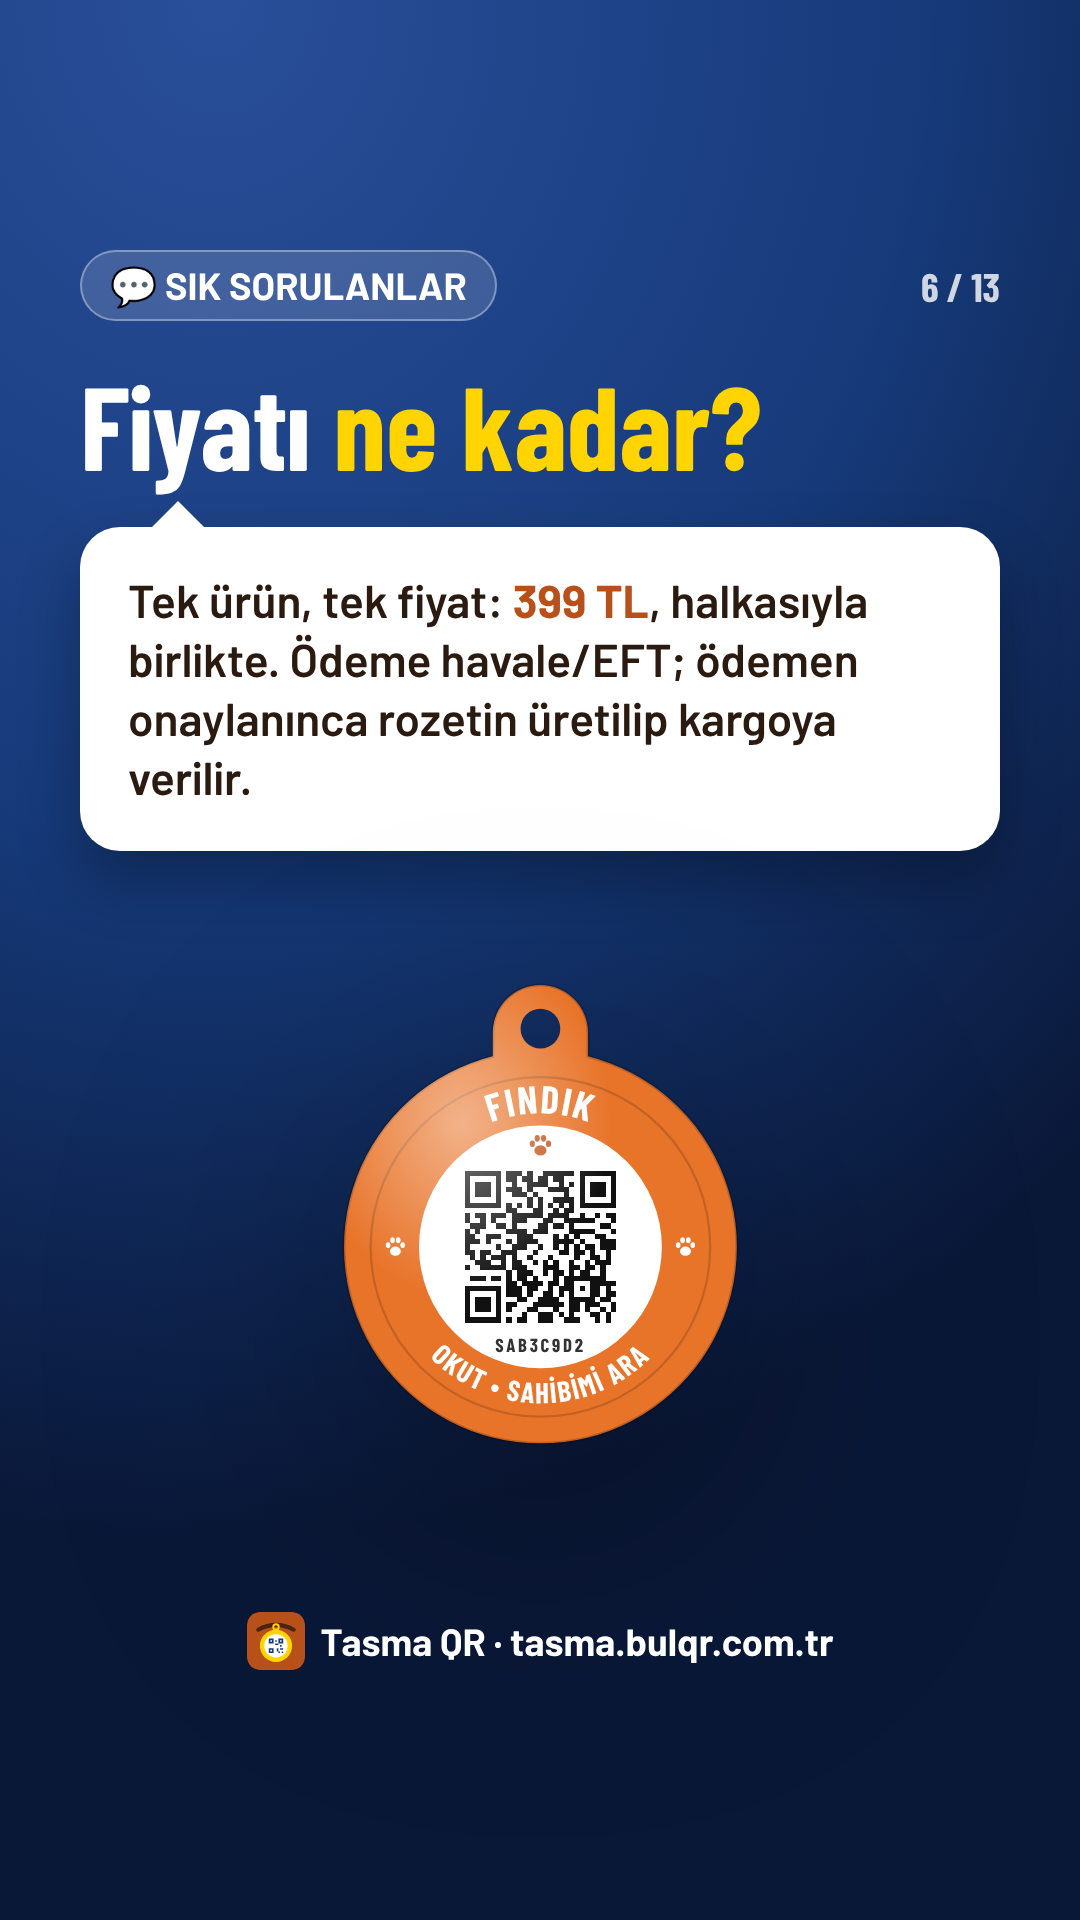
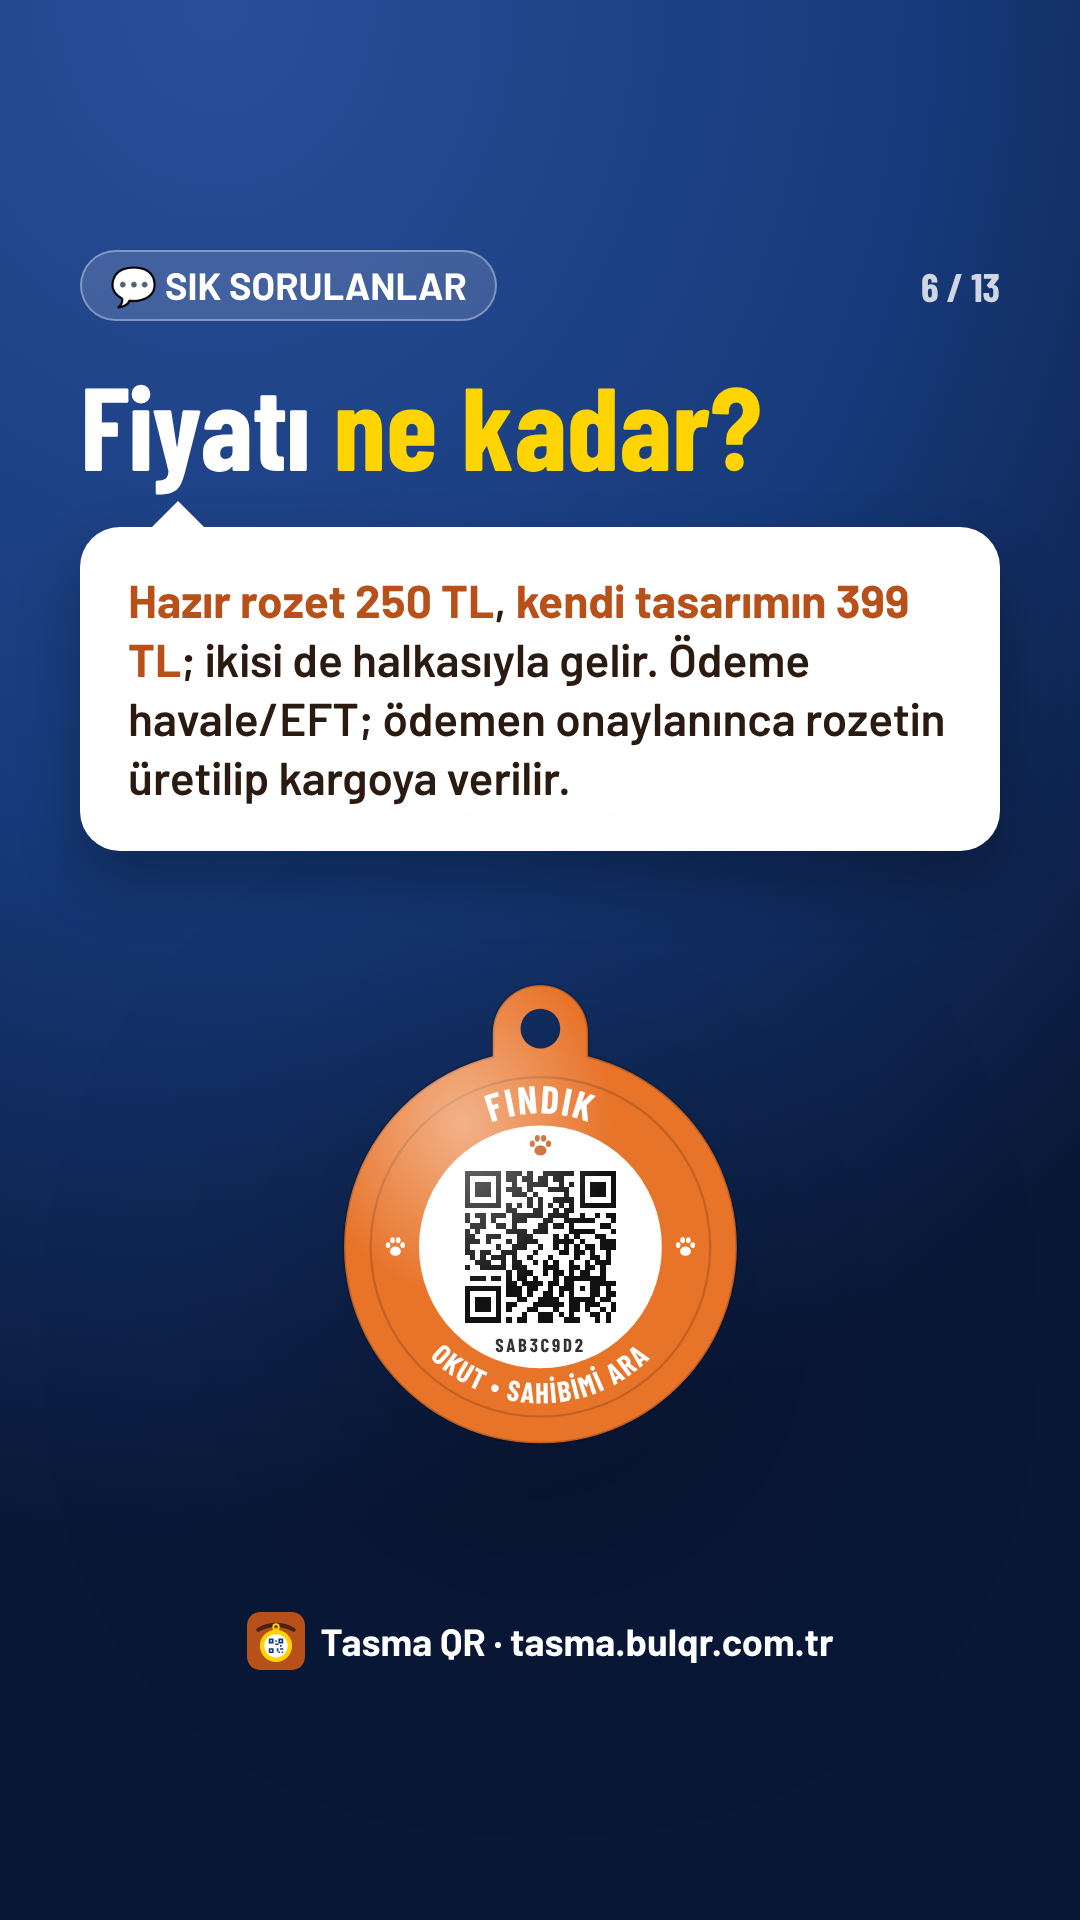
Hazır rozet ayrı fiyat (250 TL), kendi tasarımın rozeti 399 TL
- kurulum.sql sürüm 6: tasma_shop_settings.price_ready (250), hazır sipariş bu fiyattan; ilk kurulumda özel tasarım fiyatı 399'a çekilir
- Yönetim Ayarlar'da iki fiyat alanı; site, hazır rozet formu ve SSS hikâyesi güncellendi

Claude-Session: https://claude.ai/code/session_01ALvW45Kmmpq3Sujxg1sZBF

Changed region(s): [[0.1222, 0.2812, 0.8556, 0.4375]]

diff --git a/index.html b/index.html
@@ -947,7 +947,7 @@ function showHome() {
     <div class="strip">
       <div><b>1 dk</b><span>kurulum, hesap yok</span></div>
       <div><b>${Object.keys(DESIGNS).length}</b><span>rozet tasarımı</span></div>
-      <div><b>${PRICE} TL</b><span>su geçirmez 3D baskı rozet</span></div>
+      <div><b>${PRICE_READY} TL'den</b><span>su geçirmez 3D baskı rozet</span></div>
       <div><b>🔒 PIN</b><span>bilgileri yalnızca siz değiştirirsiniz</span></div>
     </div>
 
@@ -1117,7 +1117,7 @@ async function showRequest(error = "", v = null) {
       <div class="preview"><div style="zoom:1.8">${badgeAt("ÖRNEK", designForBody(v.body), badgeSize(v.size), {link: SITE, top: "SAHİBİMİ ARA", body: body?.hex})}</div></div>
       ${error ? `<div class="msg err" role="alert" style="margin-top:14px">${esc(error)}</div>` : ""}
       <form id="hf" novalidate>
-        <p class="hint" style="margin-top:0"><b>${esc(PRODUCTS[PRODUCT_KIND].name)} · ${esc(shopPrice(shop))} TL.</b> ${esc(shop.shipping_text || "")}</p>
+        <p class="hint" style="margin-top:0"><b>Hazır rozet · ${esc(shopReadyPrice(shop))} TL.</b> ${esc(shop.shipping_text || "")}</p>
         <label>Gövde rengi</label>${bodyChips(v.body, shop)}
         <label for="h-size">Ölçü</label>
         <select id="h-size" class="big">${Object.entries(BADGE_SIZES).map(([k, n]) => `<option value="${k}"${k === badgeSize(v.size) ? " selected" : ""}>${esc(n)}</option>`).join("")}</select>
@@ -1130,7 +1130,7 @@ async function showRequest(error = "", v = null) {
         </div>
         <label for="h-address">Açık adres</label><textarea id="h-address" rows="3" maxlength="400" autocomplete="street-address">${esc(v.address || "")}</textarea>
         <label for="h-note">Not <span class="opt">(isteğe bağlı)</span></label><input id="h-note" maxlength="300" ${val("note")}>
-        <button class="btn" type="submit">Siparişi oluştur · ${esc(shopPrice(shop))} TL</button>
+        <button class="btn" type="submit">Siparişi oluştur · ${esc(shopReadyPrice(shop))} TL</button>
         <span class="hint">Sonraki adımda havale / EFT bilgilerini göreceksiniz.</span>
       </form>
     </div>`, "mid");
@@ -1584,6 +1584,9 @@ const OLD_PRODUCT_TEXTS = ["Su geçirmez vinil sticker sayfası: aynı QR 7 fark
 const productText = shop => !shop?.product_text || OLD_PRODUCT_TEXTS.includes(shop.product_text.trim()) ? PRODUCT_TEXT : shop.product_text;
 const PRICE = 399; // TL; sitede gerçek fiyat yönetimdeki Ayarlar'dan gelir (tasma_shop_info.price)
 const shopPrice = shop => shop?.price ?? PRICE;
+// Hazır rozet (SAHİBİMİ ARA) ayrı fiyatlı; eski veritabanında hazır rozet de tek fiyattan (price) satılır
+const PRICE_READY = 250;
+const shopReadyPrice = shop => shop && !("price_ready" in shop) ? shopPrice(shop) : shop?.price_ready ?? PRICE_READY;
 // Rozet edinmenin iki yolu: kendi tasarımını yap (sipariş et) · hazır rozet sipariş ver (renk seç, standart SAHİBİMİ ARA)
 function productCards({design = "turuncu", name = "", shop = null, size = "y30"} = {}) {
   const colors = bodyColors(shop), b1 = colors.find(c => c.key === design) || colors[0], b2 = colors[1] || colors[0];
@@ -1596,7 +1599,7 @@ function productCards({design = "turuncu", name = "", shop = null, size = "y30"}
     <a class="product" href="#talep">
       ${badgeAt("ÖRNEK", designForBody(b2.key), size, {link: SITE, top: "SAHİBİMİ ARA", body: b2.hex})}
       <div><b>2 · Hazır rozet sipariş ver</b><span>Ad basılmaz, üstünde standart “SAHİBİMİ ARA” yazar. Gövde rengini seçin; rozet PIN kartı ve kullanım kitapçığıyla gelir, bilgilerinizi siz girersiniz.</span>
-        <div class="price">${esc(shopPrice(shop))} TL</div></div>
+        <div class="price">${esc(shopReadyPrice(shop))} TL</div></div>
     </a>
   </div>`;
 }
@@ -2659,14 +2662,19 @@ async function showSettings(newCount, error = "") {
   show(`
     ${tabsHtml(newCount)}
     ${shop ? "" : setupHtml("Sipariş sistemi kurulu değil.")}
-    ${shop && !("body_colors" in shop) ? setupHtml("Veritabanı güncel değil: gövde renkleri, 399 TL tek fiyat ve siparişte gövde rengi için güncel kurulum dosyasını çalıştırın.") : ""}
+    ${shop && !("body_colors" in shop) ? setupHtml("Veritabanı güncel değil: gövde renkleri ve siparişte gövde rengi için güncel kurulum dosyasını çalıştırın.") : ""}
+    ${shop && "body_colors" in shop && !("price_ready" in shop) ? setupHtml("Hazır rozet fiyatı ayrı değil: hazır rozete ayrı fiyat (250 TL) için güncel kurulum dosyasını çalıştırın.") : ""}
     ${error ? `<div class="msg err">${esc(error)}</div>` : ""}
     ${shop ? `
     <form id="sf" class="card" style="max-width:560px" novalidate>
       <h2>Tasmaya takılan rozet satışı</h2>
       <label class="check"><input type="checkbox" id="s-active"${shop.active ? " checked" : ""}> Satış açık (sitede sipariş alınsın)</label>
-      <label for="s-price">Rozet fiyatı (TL) <span class="opt">3D baskı gövde + su geçirmez sticker</span></label>
-      <input id="s-price" type="number" inputmode="numeric" min="0" value="${esc(shop.price ?? PRICE)}">
+      <div class="row2">
+        <div><label for="s-price">Kendi tasarımı (TL) <span class="opt">ad + tasarım basılır</span></label>
+          <input id="s-price" type="number" inputmode="numeric" min="0" value="${esc(shop.price ?? PRICE)}"></div>
+        ${"price_ready" in shop ? `<div><label for="s-price-ready">Hazır rozet (TL) <span class="opt">SAHİBİMİ ARA</span></label>
+          <input id="s-price-ready" type="number" inputmode="numeric" min="0" value="${esc(shop.price_ready ?? PRICE_READY)}"></div>` : ""}
+      </div>
 
       <h2>Gövde renkleri</h2>
       <p class="hint">Sitede sipariş ve hazır rozet formunda seçilen filament renkleri. Elinizdeki makaralara göre düzenleyin.</p>
@@ -2768,7 +2776,8 @@ async function showSettings(newCount, error = "") {
     if (iban && !validIban(iban)) return showSettings(newCount, "IBAN hatalı görünüyor: TR ile başlayan 26 karakter olmalı ve kontrol hanesi tutmalı.");
     if (active && (!iban || !g("s-name"))) return showSettings(newCount, "Satışı açmak için IBAN ve alıcı adı gerekli.");
     const price = parseInt(g("s-price"), 10), colors = readColors();
-    if (!(price >= 0)) return showSettings(newCount, "Fiyat geçersiz.");
+    const priceReady = document.getElementById("s-price-ready") ? parseInt(g("s-price-ready"), 10) : null;
+    if (!(price >= 0) || (priceReady !== null && !(priceReady >= 0))) return showSettings(newCount, "Fiyat geçersiz.");
     if (!colors.length) return showSettings(newCount, "En az bir gövde rengi girin.");
     if (g("s-notify") && !/^[^@\s]+@[^@\s]+\.[^@\s]+$/.test(g("s-notify"))) return showSettings(newCount, "Bildirim e-postası geçersiz.");
     const from = document.getElementById("s-from") ? g("s-from") : null;
@@ -2776,6 +2785,7 @@ async function showSettings(newCount, error = "") {
     const args = {p_key: adminKey, p_active: active, p_price: price, p_iban: iban, p_account_name: g("s-name"),
       p_bank_name: g("s-bank"), p_printer_email: g("s-printer"), p_shipping_text: g("s-ship"), p_product_text: g("s-product"),
       p_telegram_bot_token: g("s-tg-token"), p_telegram_chat_id: g("s-tg-chat"), p_resend_api_key: g("s-resend"), p_notify_email: g("s-notify")};
+    if (priceReady !== null) args.p_price_ready = priceReady;
     try {
       let old = false;
       await rpc("tasma_admin_shop_set", args);

diff --git a/pazarlama/buyume-plani.html b/pazarlama/buyume-plani.html
@@ -47,7 +47,7 @@ li{margin:4px 0}
 <div class="stats">
   <div><b>12</b><span>rozet tasarımı (kedi yüzü dahil), gövde rengi seçilir</span></div>
   <div><b>📍</b><span>konum ve kayıp modu bildirimi</span></div>
-  <div><b>399 TL</b><span>3D baskı gövde + su geçirmez sticker rozet</span></div>
+  <div><b>250 / 399 TL</b><span>hazır / kendi tasarımın 3D baskı rozet</span></div>
   <div><b>0 TL</b><span>kendin oluştur, yazdır</span></div>
 </div>
 <p class="small">Hazırlanma: Ekim 2026. Fiyatlar araştırma anındaki halka açık sayfalardan alınmıştır; uygulamadan önce güncelliğini kontrol edin. Kaynaklar son bölümde.</p>
@@ -78,11 +78,11 @@ li{margin:4px 0}
     <tr><td>Paslanmaz çelik künye (Dekoliva)</td><td>Lazer baskılı, telefon yazılı</td><td>~400 TL</td></tr>
     <tr><td>Pet Tag Art künyeleri</td><td>Özel baskı; QR'lı seçenekler var</td><td>~400 TL</td></tr>
     <tr><td>Yurt dışı toptan QR künye (Alibaba)</td><td>100 adet ve üstü</td><td>~2 USD / adet</td></tr>
-    <tr><td><b>Tasma QR</b></td><td>Ücretsiz oluştur/yazdır; 3D baskı gövdeli su geçirmez rozet halkasıyla gelir; hazır “SAHİBİMİ ARA” rozeti; konum bildirimi, kayıp modu, not, yedek numara</td><td><b>0 TL / 399 TL</b></td></tr>
+    <tr><td><b>Tasma QR</b></td><td>Rozetini tasarla; 3D baskı gövdeli su geçirmez rozet halkasıyla gelir; hazır “SAHİBİMİ ARA” rozeti; konum bildirimi, kayıp modu, not, yedek numara</td><td><b>250 TL / 399 TL</b></td></tr>
   </tbody>
 </table>
 <div class="card"><b>Mesaj:</b> “Künyeye numaranı kazıtma. QR rozet okutulunca seni arar, konumunu gönderir; numaran değişse de rozet aynı kalır. Ücretsiz yap, istersen su geçirmez rozetin kapına gelsin.”<br>
-<b>Fiyat önerisi:</b> İlk 50 siparişe kadar 399 TL'yi değiştirmeyin; perakende lazer künyelerle aynı bantta ama QR, konum ve kayıp modu var. Sonra “2 hayvanlı aile seti” ve “2 renk” paketini deneyin. Üretim maliyetini numune teklifine göre (bkz. üretim notu) kontrol edin.</div>
+<b>Fiyat önerisi:</b> İlk 50 siparişe kadar fiyatları (hazır 250 TL, kendi tasarımın 399 TL) değiştirmeyin; perakende lazer künyelerle aynı bantta ama QR, konum ve kayıp modu var. Sonra “2 hayvanlı aile seti” ve “2 renk” paketini deneyin. Üretim maliyetini numune teklifine göre (bkz. üretim notu) kontrol edin.</div>
 
 <h2>3. 90 gün hedefleri (öneri)</h2>
 <div class="stats">

diff --git a/pazarlama/sss-hikaye.html b/pazarlama/sss-hikaye.html
@@ -44,7 +44,7 @@ const QA = [
   ["Numaram <span class='mark'>herkese görünür</span> mü?", "Rozette numaran <b>yazmaz.</b> Yalnızca QR'ı okutan kişi seni arayabilsin diye arama ekranında görür.", "yesil", "yesil", "Karabaş"],
   ["Numaram <span class='mark'>değişirse</span> ne olacak?", "Rozeti okut, <b>“Bilgileri düzenleyin”</b>e dokun, PIN'inle yeni numaranı gir. Rozeti yeniden bastırmana gerek yok.", "kirmizi", "kirmizi", "Bobi"],
   ["Rozet <span class='mark'>neyden</span> yapılıyor?", "Gövde 3D yazıcıda dayanıklı <b>PETG</b> plastikten basılır, üstüne <b>su geçirmez lamine QR sticker</b> yapıştırılır. Suya ve güneşe dayanır, hafiftir.", "pembe", "pembe", "Lokum"],
-  ["Fiyatı <span class='mark'>ne kadar?</span>", "Tek ürün, tek fiyat: <b>399 TL</b>, halkasıyla birlikte. Ödeme havale/EFT; ödemen onaylanınca rozetin üretilip kargoya verilir.", "turuncu", "turuncu", "Fındık"],
+  ["Fiyatı <span class='mark'>ne kadar?</span>", "<b>Hazır rozet 250 TL</b>, <b>kendi tasarımın 399 TL</b>; ikisi de halkasıyla gelir. Ödeme havale/EFT; ödemen onaylanınca rozetin üretilip kargoya verilir.", "turuncu", "turuncu", "Fındık"],
   ["Kendi tasarımım mı, <span class='mark'>hazır rozet</span> mi?", "<b>Kendi tasarımında</b> dostunun adı ve seçtiğin tasarım basılır. <b>Hazır rozette</b> “SAHİBİMİ ARA” yazar, gövde rengini seçersin; bilgilerini PIN kartıyla girersin.", "klasik", "klasik", "", "SAHİBİMİ ARA"],
   ["<span class='mark'>Kediler</span> için de olur mu?", "Evet! Tasma takan her dost için uygun. Kediler için hafif <b>Ø30 mm</b> rozeti ve <b>güvenlik kilitli</b> (çekince açılan) kedi tasmasını öneririz.", "pembe", "kedi", "Minnoş"],
   ["Dostum <span class='mark'>kaybolursa?</span>", "Tek dokunuşla <b>kayıp modunu</b> aç: rozeti okutan herkes kırmızı “KAYIP!” uyarısını ve ödül notunu görür, okutulunca sana bildirim gelir.", "kirmizi", "kirmizi", "Bobi"],

diff --git a/README.md b/README.md
@@ -16,7 +16,7 @@ Evcil hayvanların tasmasına künye gibi takılan QR rozet. Rozeti okutan kişi
 - **Rozetlerim** (`#kunyelerim`): bu cihazdaki rozetler, okutma sayısı, son konumlar, yazdırma ve PDF
 - **12 tasarım, 7 ölçü**: yuvarlak Ø25–Ø40 mm, dikdörtgen 35×50–50×75 mm
 - **Silme**: sahibi PIN ile rozeti siler (okutmalar ve konumlar da silinir; yönetimden basılan rozet boşa çıkar ve PIN kartıyla yeniden bağlanabilir). Yönetimde kullanılmamış rozetler silinebilir
-- **Tasmaya takılan rozet**: 3D yazıcıda basılan kulaklı (halka delikli) PETG gövde + çukurunda su geçirmez lamine QR sticker; Ø30/35 mm, gövde rengi seçilir, 399 TL (Ayarlar'dan değişir). İki yol: kendi tasarla (indir ya da sipariş et) · hazır rozet (standart SAHİBİMİ ARA, renk seçilir)
+- **Tasmaya takılan rozet**: 3D yazıcıda basılan kulaklı (halka delikli) PETG gövde + çukurunda su geçirmez lamine QR sticker; Ø30/35 mm, gövde rengi seçilir. İki yol: kendi tasarla 399 TL · hazır rozet 250 TL (standart SAHİBİMİ ARA, renk seçilir). Fiyatlar Ayarlar'dan değişir
 - **Üretim dosyası**: sipariş başına gerçek ölçülü yuvarlak QR etiket PDF'i (gövde rengi notuyla); gövdeler ve stok etiketleri `uretim/3d/` sayfasından
 - **Hazır rozet talep formu** (rozet tipi, tasarım, ölçü) ve **rozet siparişi** (IBAN ile ödeme, Telegram/e-posta bildirimi)
 - **Yönetim** (`?admin`): PIN kartlı rozet üretme/yazdırma, gövde renkleri, talepler, siparişler, satış ayarları
